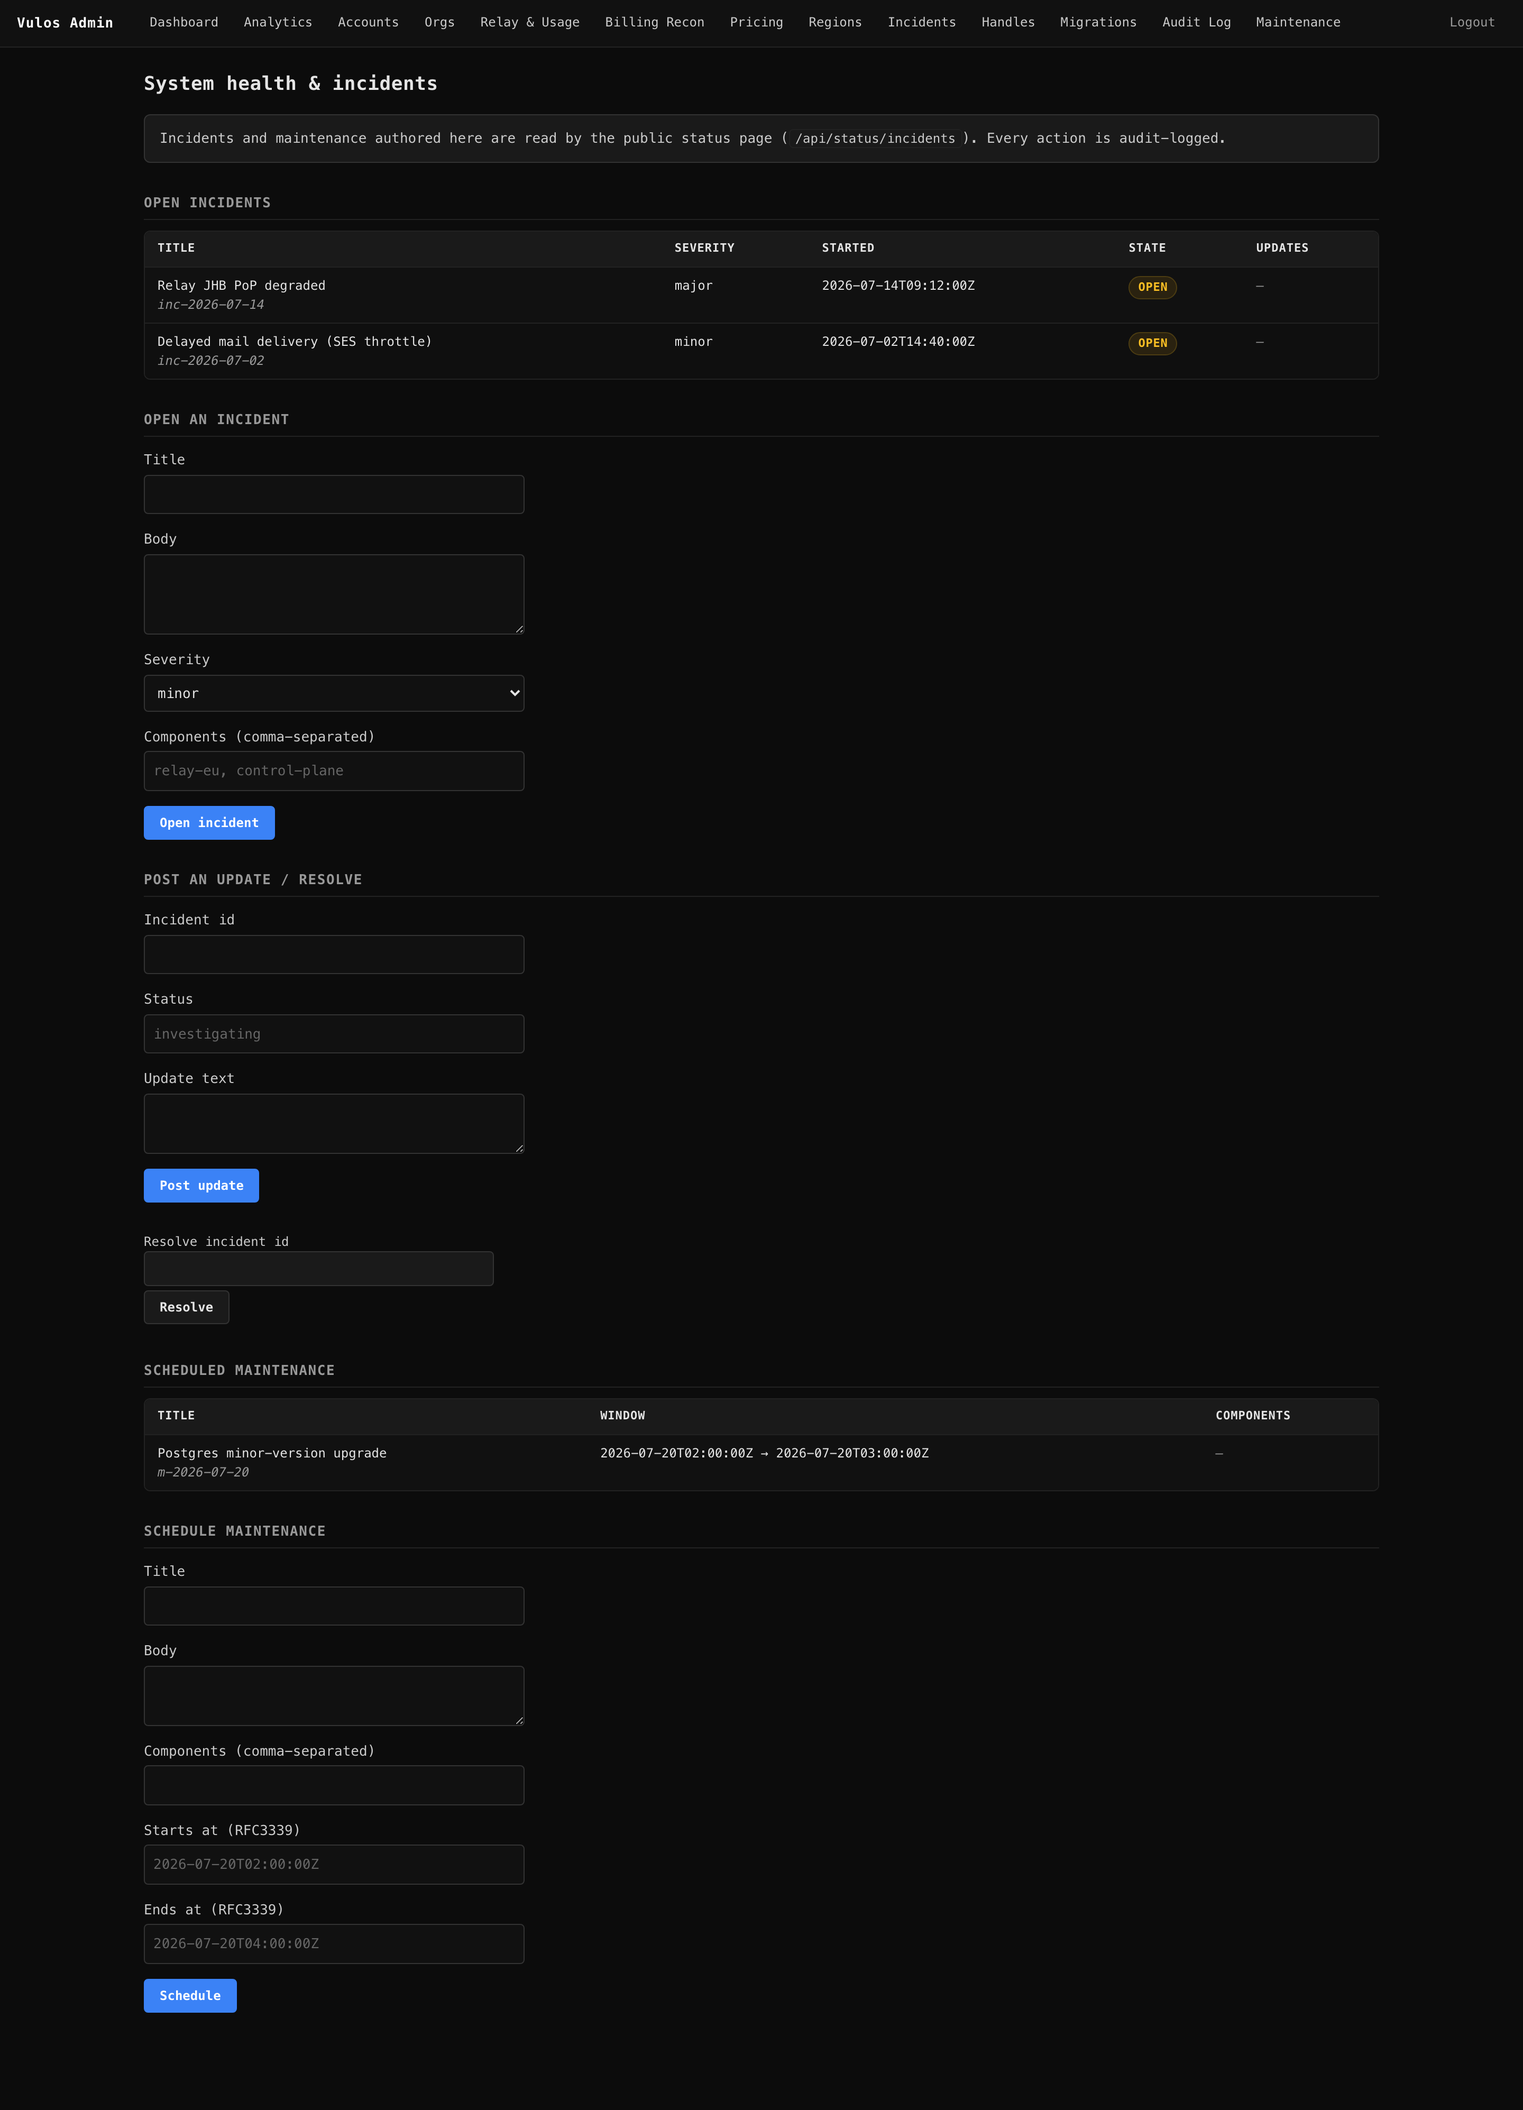
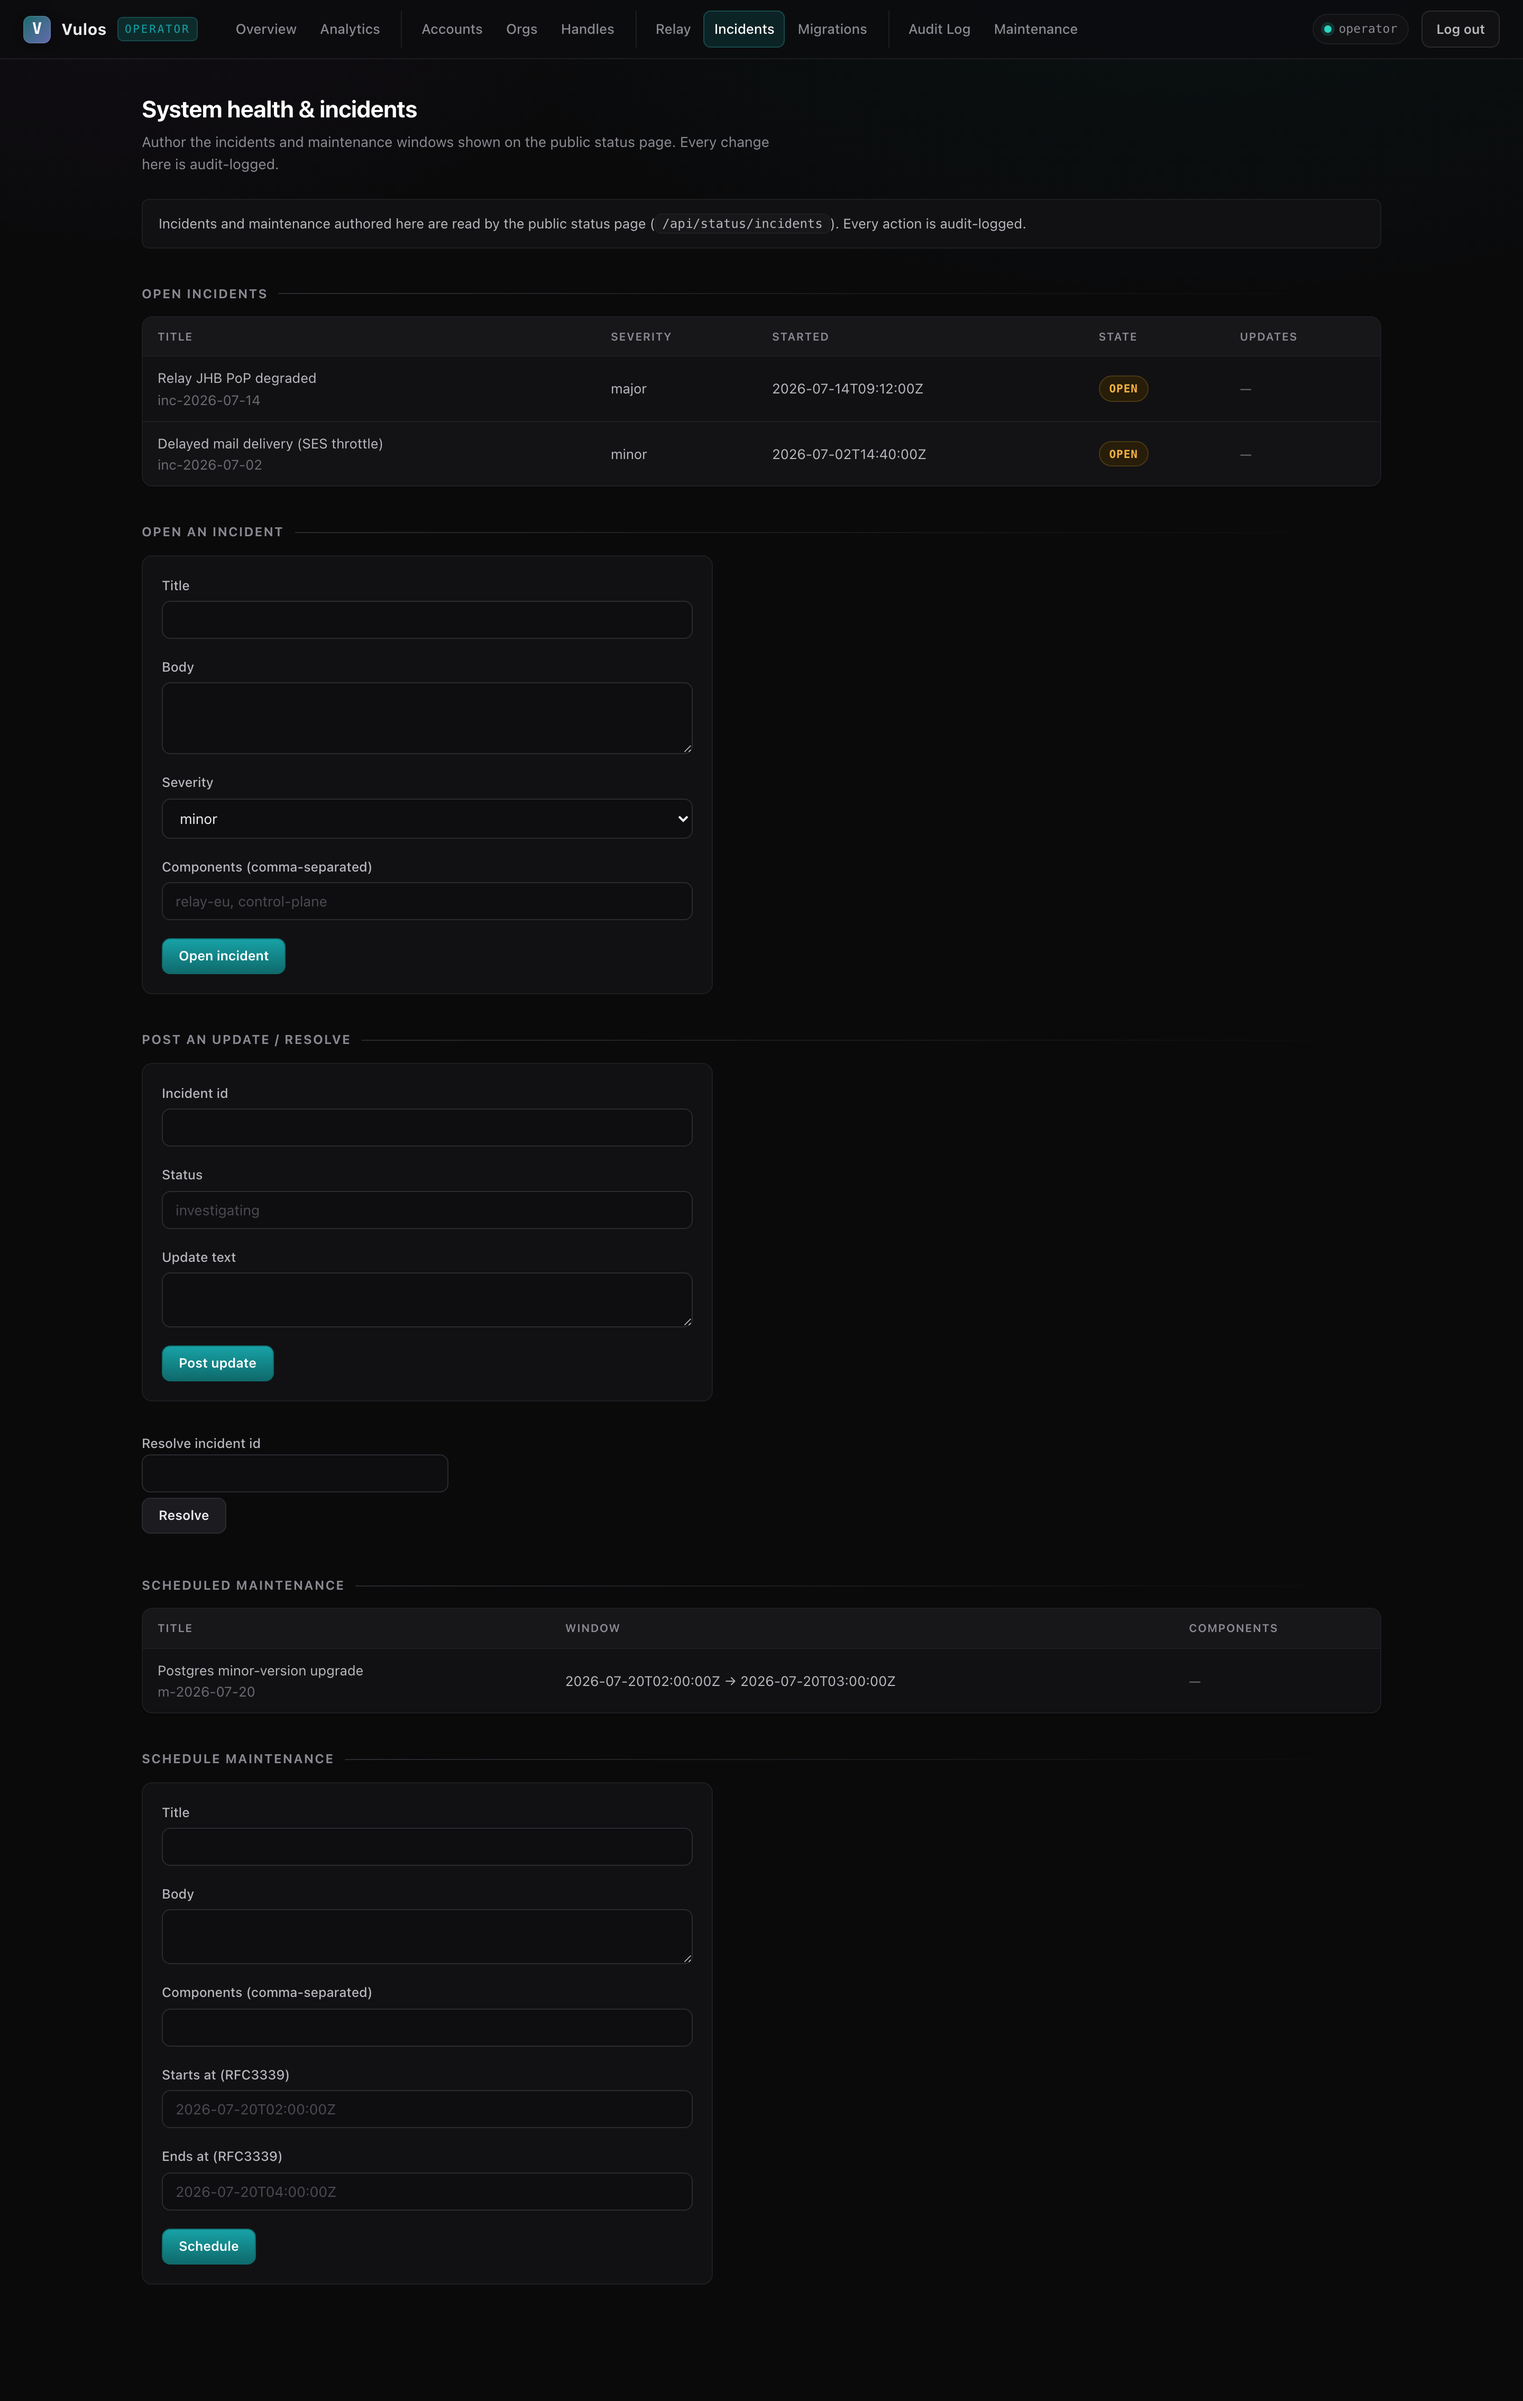
docs(screenshots): regenerate the de-commercialized dark console gallery
Re-shoot the whole console on the redesigned instrument-panel theme and drop the
commercial surfaces:

  - delete billing-recon / pricing / regions shots (surfaces removed from OSS)
  - security dashboard is now captured dark (folded onto the shared admin.css),
    no longer a light bolt-on panel
  - refresh dashboard / accounts / analytics / relay / orgs / incidents / audit /
    login and the detail pages on the new header + table + pill styling
  - capture.mjs: drop the removed pages, retheme security → dark, rewrite the
    gallery index (no more "light-themed" note)
  - README screenshots section rewritten around the operational cockpit; commercial
    captions (MRR / COGS / margin / pricing / regions) gone

admin.css polish captured in the shots: static (non-sticky) table headers so
full-page tables render cleanly, wider audit-feed timestamp column, a mono
traffic-sparkline style and a couple of shared utilities.

diff --git a/pkg/superadmin/assets/admin.css b/pkg/superadmin/assets/admin.css
@@ -316,8 +316,6 @@ thead th, table tr:first-child th {
   background: var(--surface-2);
   color: var(--text-3);
   font-weight: 600;
-  position: sticky;
-  top: 56px;
   text-transform: uppercase;
   font-size: 10.5px;
   letter-spacing: .7px;
@@ -549,13 +547,14 @@ pre.spark {
 .feed { border: 1px solid var(--border); border-radius: var(--radius); background: var(--surface); overflow: hidden; }
 .feed-row {
   display: grid;
-  grid-template-columns: 62px 172px 1fr;
-  gap: 14px;
+  grid-template-columns: 56px 232px 1fr;
+  gap: 16px;
   align-items: baseline;
   padding: 11px 16px;
   border-bottom: 1px solid var(--border);
   position: relative;
 }
+.feed-time { overflow: hidden; text-overflow: ellipsis; }
 .feed-row:last-child { border-bottom: none; }
 .feed-row:hover { background: var(--hover); }
 .feed-seq { font-size: 11.5px; color: var(--accent); }
@@ -640,7 +639,6 @@ tr.row-warn:hover td { background: rgba(245,179,66,.09); }
 @media (max-width: 860px) {
   .tb-nav { order: 3; width: 100%; padding: 6px 0 8px; }
   .tb-group { padding: 0 8px 0 0; border-left: 0; }
-  thead th, table tr:first-child th { top: 0; }
 }
 @media (max-width: 640px) {
   main { padding: 22px 14px 56px; }

diff --git a/docs/assets/screenshots/README.md b/docs/assets/screenshots/README.md
@@ -5,27 +5,24 @@ Generated by `npm run screenshots` (`scripts/screenshots/capture.mjs`).
 Each image is the **real** server-rendered console page (the same
 `pkg/superadmin` / `pkg/security` templates + CSS the control plane serves),
 seeded with fabricated demo data by the Go dump harness — no operator data is
-ever captured. Retina (1440-wide @2x). The console is dark-themed; the
-security dashboard is light-themed. Neither themes dynamically.
+ever captured. Retina (1440-wide @2x). The whole console — including the
+security dashboard — ships a single deliberate dark instrument-panel theme.
 
-| Image | Surface | Theme |
-|-------|---------|-------|
-| `dashboard.png` | Dashboard — Fleet billing cockpit — MRR, account counts, per-product cost rollup and the live audit feed. | dark |
-| `accounts.png` | Accounts — Account search + admin — suspend, refund, force-reset, with every action audit-logged. | dark |
-| `account-detail.png` | Account detail — A single account: verification / TOTP / session state and its billing transactions. | dark |
-| `analytics.png` | Analytics — Users, DAU / MAU and per-product 7-day usage trends drawn as inline SVG sparklines. | dark |
-| `orgs.png` | Orgs — Organisation directory — members, seats, tier and suspension state. | dark |
-| `org-detail.png` | Org detail — One organisation: member roster, roles and a usage summary. | dark |
-| `relay.png` | Relay & usage — Relay data-plane overview — PoP health per region and per-account GB / overage. | dark |
-| `billing-recon.png` | Billing reconciliation — Revenue vs estimated COGS per tier, blended margin and drift-flagged tenants. | dark |
-| `pricing.png` | Pricing — The SKU price catalogue — USD list price and the live ZAR the card is actually charged. | dark |
-| `regions.png` | Regions — Per-region economics — egress cost, relay price, compute multiplier and real spend. | dark |
-| `incidents.png` | Incidents — Status-page incidents and scheduled maintenance windows. | dark |
-| `migrations.png` | Migrations — Aggregate schema state polled across every product in the suite. | dark |
-| `auditlog.png` | Audit log — The tamper-evident, hash-chained audit log with actor / action filters. | dark |
-| `reserved-handles.png` | Reserved handles — Reserved-username registry (postmaster, abuse, brand handles …). | dark |
-| `maintenance.png` | Maintenance — Operator tools — verify the audit chain, check secret rotation. | dark |
-| `login.png` | Operator login — The console sign-in: password + TOTP, then a WebAuthn hardware-key step-up. | dark |
-| `security-dashboard.png` | Security dashboard — WAF hits, bot scores, step-up / ATO events, CT-log certs, egress anomalies and honeypot hits. | light |
+| Image | Surface |
+|-------|---------|
+| `dashboard.png` | Operator console — The central cockpit — fleet health beacon, account / super-admin counts, open-incident state and the live hash-chained audit feed, with jump cards to every section. |
+| `accounts.png` | Accounts — Account search + admin — suspend, force-reset and reset 2FA, with every action audit-logged. |
+| `account-detail.png` | Account detail — A single account: verification / TOTP / session state, entitlements and recorded usage. |
+| `analytics.png` | Analytics — Users, DAU / MAU and per-product 7-day usage trends drawn as inline SVG sparklines. Usage signals only. |
+| `orgs.png` | Organisations — Organisation directory — members, seats, tier and suspension state. |
+| `org-detail.png` | Org detail — One organisation: member roster, roles and a usage summary. |
+| `relay.png` | Relay health — Relay data-plane health — per-region PoP status and throughput. Operational signals only. |
+| `incidents.png` | Incidents — Status-page incidents and scheduled maintenance windows. |
+| `migrations.png` | Migrations — Aggregate schema state polled across every product in the suite. |
+| `auditlog.png` | Audit log — The tamper-evident, hash-chained audit log with actor / action filters. |
+| `reserved-handles.png` | Reserved handles — Reserved-username registry (postmaster, abuse, brand handles …). |
+| `maintenance.png` | Maintenance — Operator tools — verify the audit chain, check secret rotation. |
+| `login.png` | Operator login — The console sign-in: password + TOTP, then a WebAuthn hardware-key step-up. |
+| `security-dashboard.png` | Security dashboard — WAF hits, bot scores, step-up / ATO events, CT-log certs, egress anomalies and honeypot hits. |
 
 Regenerate: `npm run screenshots`

diff --git a/README.md b/README.md
@@ -54,23 +54,22 @@ time with **`make screenshots`** (see [below](#regenerating-the-screenshots)).
 
 <div align="center">
 
-<img src="docs/assets/screenshots/dashboard.png" alt="Admin dashboard — fleet billing cockpit and live audit feed" width="900" />
+<img src="docs/assets/screenshots/dashboard.png" alt="Operator console — fleet health, counts and the live hash-chained audit feed" width="900" />
 
-<em>Dashboard — fleet billing cockpit (MRR, per-product cost rollup) over the live, hash-chained audit feed.</em>
+<em>The operator cockpit — fleet-health beacon, account / super-admin counts and open-incident state over the live, hash-chained audit feed, with jump cards to every section.</em>
 
 </div>
 
 | | |
 |:---:|:---:|
-| <img src="docs/assets/screenshots/security-dashboard.png" width="420" alt="Security dashboard" /><br/><sub><b>Security dashboard</b> — WAF hits, bot scores, ATO reviews, CT-log certs, egress anomalies</sub> | <img src="docs/assets/screenshots/billing-recon.png" width="420" alt="Billing reconciliation" /><br/><sub><b>Billing reconciliation</b> — revenue vs COGS per tier, blended margin, drift flags</sub> |
-| <img src="docs/assets/screenshots/analytics.png" width="420" alt="Analytics" /><br/><sub><b>Analytics</b> — DAU/MAU and per-product 7-day usage sparklines</sub> | <img src="docs/assets/screenshots/relay.png" width="420" alt="Relay & usage" /><br/><sub><b>Relay &amp; usage</b> — PoP health per region, per-account GB &amp; overage</sub> |
-| <img src="docs/assets/screenshots/accounts.png" width="420" alt="Accounts" /><br/><sub><b>Accounts</b> — search + suspend/refund/reset, every action audit-logged</sub> | <img src="docs/assets/screenshots/pricing.png" width="420" alt="Pricing" /><br/><sub><b>Pricing</b> — SKU catalogue with USD list price and the live ZAR actually charged</sub> |
-| <img src="docs/assets/screenshots/regions.png" width="420" alt="Regions" /><br/><sub><b>Regions</b> — per-region egress cost, relay price, compute multiplier, real spend</sub> | <img src="docs/assets/screenshots/incidents.png" width="420" alt="Incidents" /><br/><sub><b>Incidents</b> — status-page incidents and scheduled maintenance</sub> |
+| <img src="docs/assets/screenshots/security-dashboard.png" width="420" alt="Security dashboard" /><br/><sub><b>Security dashboard</b> — WAF hits, bot scores, ATO reviews, CT-log certs, egress anomalies</sub> | <img src="docs/assets/screenshots/analytics.png" width="420" alt="Analytics" /><br/><sub><b>Analytics</b> — DAU/MAU and per-product 7-day usage sparklines (usage only)</sub> |
+| <img src="docs/assets/screenshots/relay.png" width="420" alt="Relay health" /><br/><sub><b>Relay health</b> — per-region PoP health and data-plane throughput</sub> | <img src="docs/assets/screenshots/accounts.png" width="420" alt="Accounts" /><br/><sub><b>Accounts</b> — search + suspend / force-reset / reset-2FA, every action audit-logged</sub> |
+| <img src="docs/assets/screenshots/orgs.png" width="420" alt="Organisations" /><br/><sub><b>Organisations</b> — directory of members, seats, tier and suspension state</sub> | <img src="docs/assets/screenshots/incidents.png" width="420" alt="Incidents" /><br/><sub><b>Incidents</b> — status-page incidents and scheduled maintenance</sub> |
 | <img src="docs/assets/screenshots/auditlog.png" width="420" alt="Audit log" /><br/><sub><b>Audit log</b> — tamper-evident, hash-chained, actor/action filters</sub> | <img src="docs/assets/screenshots/login.png" width="420" alt="Operator login" /><br/><sub><b>Operator login</b> — password + TOTP, then a WebAuthn hardware-key step-up</sub> |
 
-<sub>The full gallery (orgs, org detail, migrations, reserved handles, account detail, maintenance) lives in
-[`docs/assets/screenshots/`](docs/assets/screenshots/). The console ships a single deliberate dark theme; the
-security dashboard is light — neither themes dynamically, so each is shown in its canonical look.</sub>
+<sub>The full gallery (org detail, account detail, migrations, reserved handles, maintenance) lives in
+[`docs/assets/screenshots/`](docs/assets/screenshots/). The whole console — including the security dashboard —
+ships a single deliberate dark "instrument-panel" theme, and does not theme dynamically.</sub>
 
 ## Features
 
